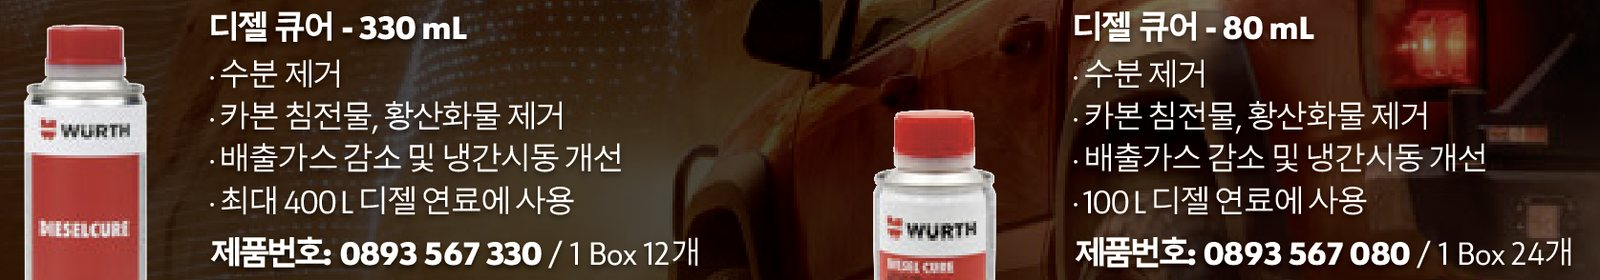
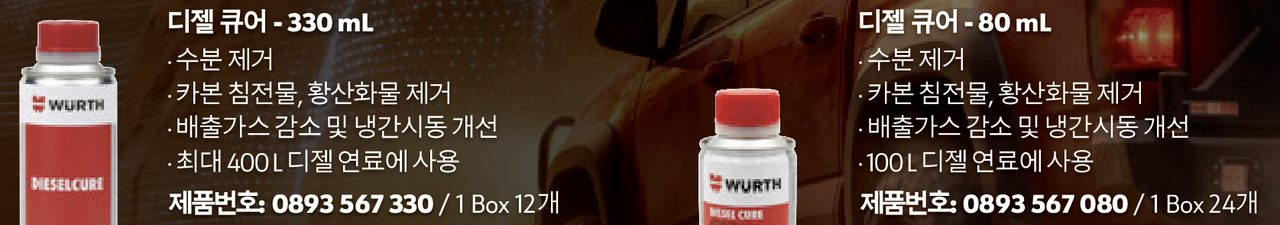
notes: add figures

diff --git a/notes/font/index.html b/notes/font/index.html
@@ -110,11 +110,11 @@ footer { margin:80px 0 0; padding-top:20px; border-top:1px solid var(--rule); fo
 <h2>정식 버전</h2>
 <p>1·2차 검수에서 지적한 사항은 정식 버전에 모두 반영됐고, 이후 문제도 우선 반영하겠다는 답을 받았다. 새 그룹 서체 Wuerth Sans Global을 한국뷔르트의 모든 매체에 적용한 후로 임시로 쓰던 Noto Sans와 이전 그룹 서체 Wuerth Global은 이제 쓰지 않는다.</p>
 <figure>
-<img src="before.jpg" width="1600" height="743" alt="회사 소개 문단. 영문 제목과 한글 본문의 서체가 다르고, 한글은 한 가지 굵기에 빨간색으로만 강조했다." loading="lazy">
+<img src="before.jpg" width="1280" height="595" alt="회사 소개 문단. 영문 제목과 한글 본문의 서체가 다르고, 한글은 한 가지 굵기에 빨간색으로만 강조했다." loading="lazy">
 <figcaption>전: 입사 전 인쇄물. 한글 서체에 굵기 단계가 부족해 크기와 색으로만 위계를 줬다. 영문 제목과 한글 본문의 서체도 다르다.</figcaption>
 </figure>
 <figure>
-<img src="after.jpg" width="1600" height="280" alt="제품 설명 두 건. 제품명과 제품번호는 굵게, 설명은 보통 굵기로 조판했다." loading="lazy">
+<img src="after.jpg" width="1280" height="225" alt="제품 설명 두 건. 제품명과 제품번호는 굵게, 설명은 보통 굵기로 조판했다." loading="lazy">
 <figcaption>후: 새 그룹 서체로 작업한 인쇄물(2026년 10월). 제품명·설명·제품번호를 굵기로 나눴다.</figcaption>
 </figure>
 <p>문제를 제기하고 배포되기까지 1년 반이 걸렸다. 그 긴 시간을 임시 기준으로 버텼다.</p>
